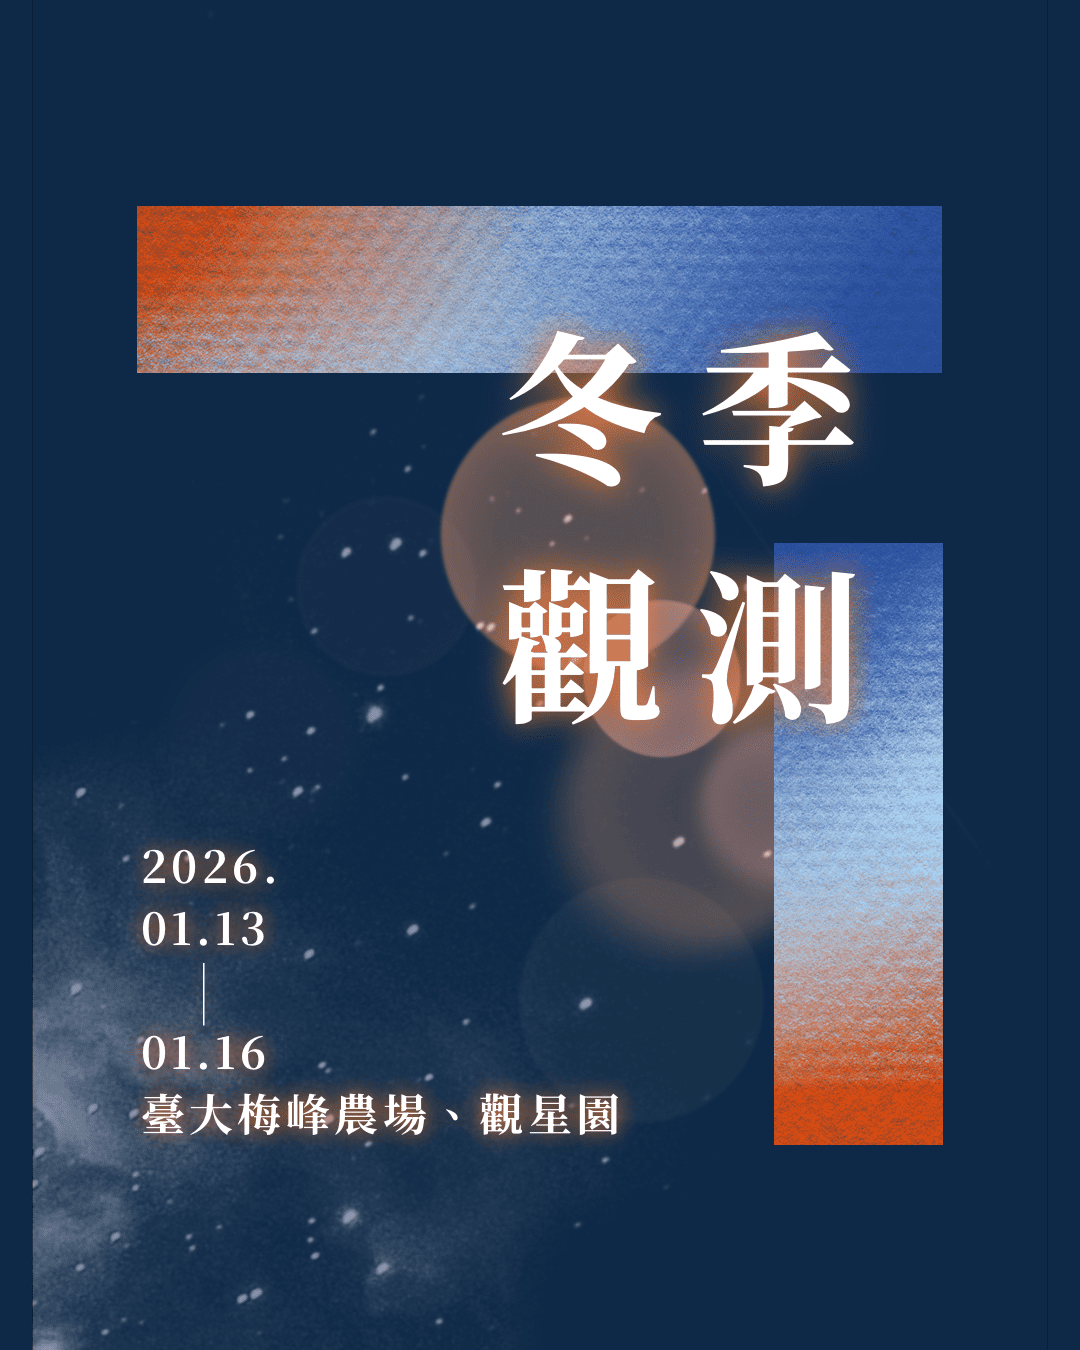
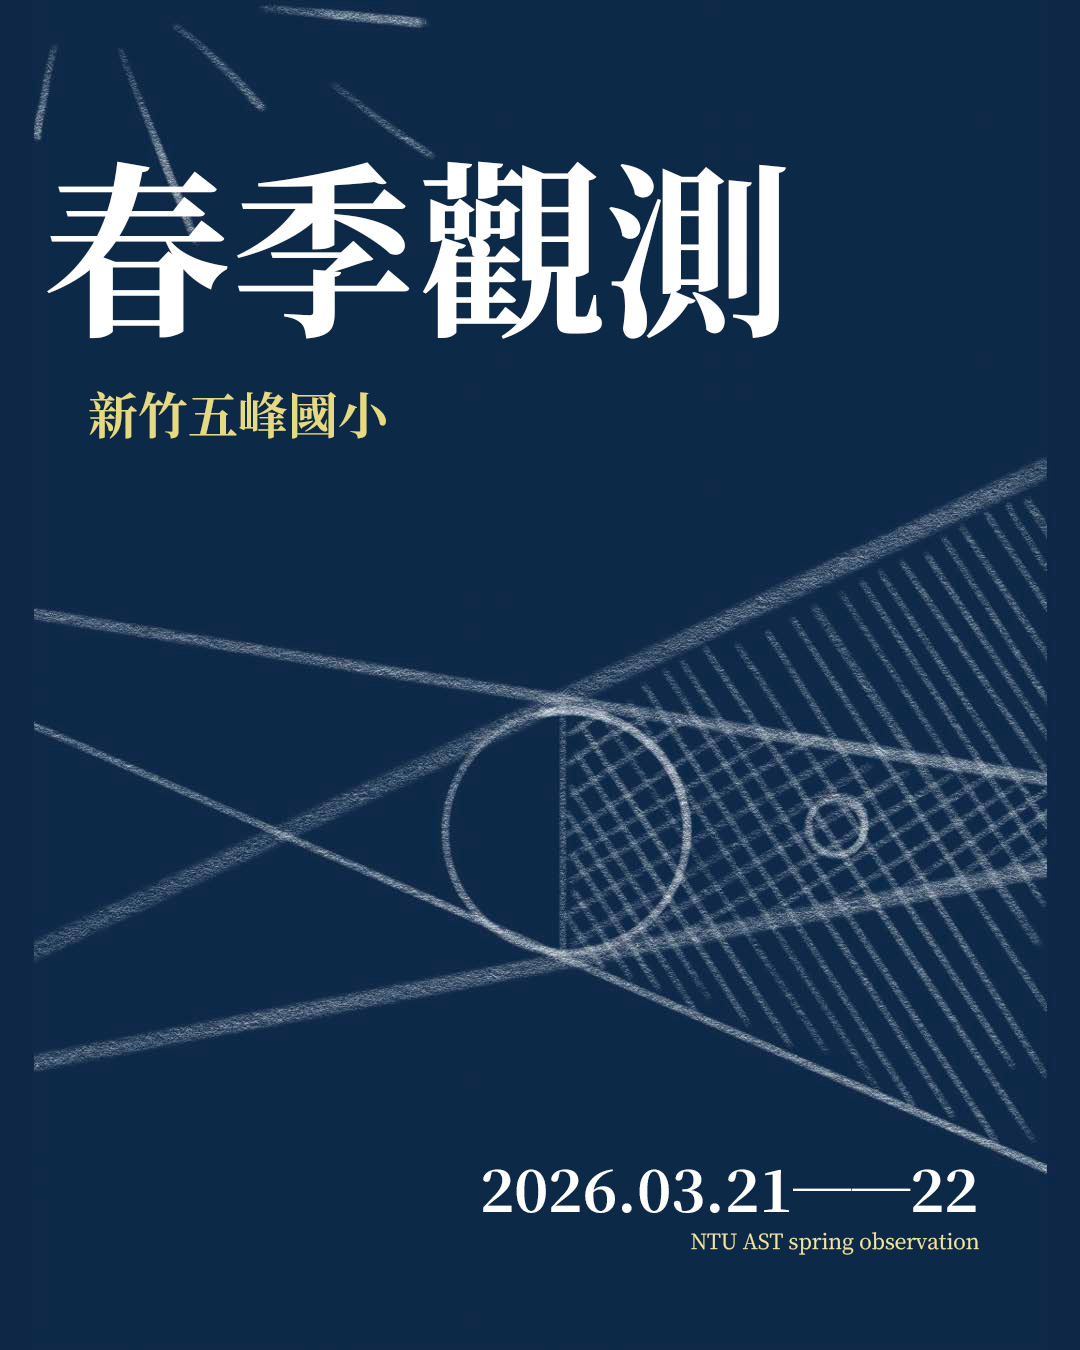
Release (#21)
* newpost nightstories stargazers & release setting

* newpost nightstories stargazers modify

* news

diff --git a/static/css/style.css b/static/css/style.css
@@ -662,8 +662,7 @@ footer {
     text-decoration: none;
     color: inherit;
     transition: transform 0.3s ease, box-shadow 0.3s ease;
-    justify-content: center;
-    align-items: center;
+    align-items: stretch;
 }
 
 @media (hover: hover) {
@@ -675,11 +674,7 @@ footer {
 
 .stories-thumb {
     flex: 0 0 10rem;
-    aspect-ratio: 3 / 4;
     overflow: hidden; 
-    width: 100%; 
-    height: 100%; 
-    object-position: center center;
 }
 
 .stories-thumb img {
@@ -692,7 +687,6 @@ footer {
     width: 100%;
     height: 100%;
     object-fit: cover;
-    object-position: center center;
 }
 
 .stories-meta {

diff --git a/layouts/_default/baseof.html b/layouts/_default/baseof.html
@@ -6,7 +6,6 @@
     <meta name="viewport" content="width=device-width, initial-scale=1.0">
     <meta name="description" content="臺大天文社官方網站，提供最新消息、社團介紹、活動行事曆、社團歷史和成果紀錄">
     <meta name="keywords" content="臺大, 天文社, 臺大天文社, 官方網站, 天文, 社團, 星空, 台大天文社, NTU Astronomy Club">
-    <meta name="robots" content="noindex"> <!-- 3/5 發布時刪除這行 -->
 
     <title>臺大天文社 NTU Astronomy Club：{{ .Title }}</title>
     

diff --git a/content/night-stories/stargazers/2025_summer.md b/content/night-stories/stargazers/2025_summer.md
@@ -1,0 +1,36 @@
+---
+title: "夏觀回顧" #頁面標題
+author: "蘇柏元" #作者
+date: 2025-07-23 # 顯示日期
+publishdate: 2026-03-05T11:00:00+08:00 # 發文日期
+
+draft: false          # 是否是草稿 
+pinned: false        # 是否置頂（可省略）
+archived: false     # 是否典藏（可省略）
+
+summary: "2025 夏季觀測回顧。地點：觀星園。時間：2025/07/23~2025/07/25" # list 頁顯示的摘要
+session: "48" # 用於幹部回憶錄的分類
+semester: "114-1" # 用於之後的分類
+
+cover: "images/night-stories/stargazers/48/summer/Group_photo.JPG" # 封面圖片
+
+# 內文從h2開始，h1 是用來顯示title的
+# 底下需要引入圖片的地方 可以直接寫 ![文字](圖片名稱) 並上傳對應圖片，網管會負責把圖片搬過來
+---
+
+夏季觀測，指的是台大天文社每年夏季所舉辦的觀測活動，舉辦於暑假。本次夏季觀測我們再次前往最喜歡的觀星園進行三天兩夜的活動。
+
+活動一如往常以吵雜喧鬧的遊覽車開始，混亂地抵達觀星園之後，不久我們就開始破冰，準備迎接第一個令人期待的活動：吃火鍋。不過破冰還是很重要，因為等一下吃火鍋要先退冰（破冰）。果然火鍋很好吃。
+
+吃完很好吃的火鍋之後，進入儀器與星導時間。同學們看到大開天簡直興奮得不得了，嗨爆啦，眾人最喜歡的除了吃火鍋以外就是看星星，在燦爛星空的誘惑之下，大家雖然站在熱情的儀器前，都忍不住對晴朗的夜空眉來眼去。縮短的儀器和星導時間順順接到自由觀測階段！見到銀河樂不可支是每個天文同好的共同經驗，在觀星園上這份喜悅又是更上層樓，同學們在社長的帶領之下紛紛站到閃光燈與手機前，排隊與銀河進行美妙的合照。每張照片中銀河都有比耶！
+
+自由是人類生命崇高的追求。台大天文社讚頌崇高的自由理想，活動的第二天更是實踐了解脫一切束縛的理想，尤其是有關行程的枷鎖。我們安排了大半天的自由活動時間，讓參與同學們自行前往清境農場遊覽充滿山坡民宿的田園風光。幹部與新朋友們更是呼朋引伴到了國民賓館享受屬於高山農場的典型佳餚。下午的大地遊戲也令人同青青草原上的綿羊一般興奮，除了從清境農場走回觀星園的小隊員們，大家在觀星園的平台上遊玩各式高風險投資遊戲，如追加關稅一般享受操縱經濟的快感。
+
+使用比新台幣更為創新的貨幣遊玩投資遊戲之後，便是令人期待的環節：吃火鍋。兩天的火鍋各有不同的風味，除了吃起來也是好吃的火鍋以外，更是有不同的口味可以選擇。可惜的是本次活動尚未有湯圓入鍋的創舉，有待天文社幹部進行開發。吃完美味的火鍋之後（我吃的是羊肉爐口味），小隊領取了活動的獎品，之後進入第二天的星導環節。儀器在本日晚上雖尚未體悟湯圓入火鍋的洞見，但開創令人聞風喪膽的儀器新猷：享受觀星園民宿溫暖的床。眾所周知民宿溫暖的床是給認真參與白天活動的小隊員在沒有開天的晚上的安慰，然而儀器卻挑戰了台大天文社的傳統，可說是富有批判性的新銳思想實踐。
+
+![2025夏季觀測儀器冗照.jpg](/images/night-stories/stargazers/48/summer/sleep.jpg)
+
+第三天早上一如往常是大合照和整理行李，準備依依不捨向觀星園說再見的一天。但是台大天文社果然還是台大天文社，所以我們在吃了好吃的早餐以後非常依依不捨的向偉大的觀星園說再見，為大開天的夏季觀測劃下了美好的句點。很期待下次再到觀星園觀測！
+
+![2025夏季觀測大合照.jpg](/images/night-stories/stargazers/48/summer/Group_photo.JPG)
+![2025夏季觀測幹部們.jpg](/images/hero/hero_1.jpg)

diff --git a/content/night-stories/stargazers/2025_fall.md b/content/night-stories/stargazers/2025_fall.md
@@ -1,0 +1,35 @@
+---
+title: "秋觀回顧" #頁面標題
+author: "蘇柏元" #作者
+date: 2025-09-28 # 顯示日期
+publishdate: 2026-03-05T11:00:00+08:00 # 發文日期
+
+draft: false          # 是否是草稿 
+pinned: false        # 是否置頂（可省略）
+archived: false     # 是否典藏（可省略）
+
+summary: "2025 臺政聯合迎新暨秋季觀測。地點：五峰國小。時間：2025/09/28~2025/09/29" # list 頁顯示的摘要
+session: "48" # 用於幹部回憶錄的分類
+semester: "114-1" # 用於之後的分類
+
+cover: "images/night-stories/stargazers/48/fall/image.jpg" # 封面圖片
+
+# 內文從h2開始，h1 是用來顯示title的
+# 底下需要引入圖片的地方 可以直接寫 ![文字](圖片名稱) 並上傳對應圖片，網管會負責把圖片搬過來
+---
+
+秋季觀測，指的是台大天文社每年秋季所舉辦的觀測活動，舉辦於每學年度上學期。本次秋季觀測與政大天文社共同舉辦，共有八十位兩校的幹部和社員參加活動。
+
+如同台大天文社所說，五峰國小的「五」是來五次的五，這次活動我們和政大又來到了新竹縣五峰國小。五峰國小以長長的上坡和好天氣親切迎人，讓大家都享受著五峰的陽光空氣水。
+
+活動一開始是大家最喜歡的破冰環節。不久以後，秋觀的第一個活動開始，是大地遊戲與解謎結合的大遊戲「極望大盜」。各小隊扮演一個未知的角色，需要藉由贏得遊戲來獲得遊戲的提示和點數以贏得遊戲。小隊們玩了飛盤和詞語接龍等有趣的遊戲，非常的令人興奮。最後恭喜第一名的小隊獲得一個好吃的點心。
+
+除了活動以外，我們也關注社寵 Draco 的社交情形。Draco 認識了來自政大的密卡登三千和其他好朋友。我們的幹部們還升級成行政院學校午餐廚房廚師！當然，參與活動的社員也玩得很開心呢！
+
+活動結束後迎來萬眾期待的夜觀時間。天氣慢慢從半開逐漸晴朗，欣賞著漫天星空，大家不禁低吟著「哇，好冷」「哇，這是什麼星星」甚至「我要錢」等含糊不清的語句，顯然是被夜觀幹部的浪漫星導所魅惑。眾人在望遠鏡和儀器包圍之下，受滿天星空感動而躺在星墊上仰望清澈的星空。餐廳裡不知名的交雜聲音，例如「我是炸彈人」等意義不明的句子貫徹雲霄，這又是另外一回事了。
+
+隔天早上，在政大幹部們熱情的帶領之下，活潑有力的社員們開心地完成了另一場解謎活動。據說為了這場活動，隊員們特別期待的提早起床呢！當然，這不包含某蘇姓副社長，畢竟通常觀測最難叫醒的人就是他。
+
+五峰國小可以說是台大天文社的第二基地，幹部和朋友們在此創造了許多美好的回憶，是個特別的地方。以下開放賭盤明年秋季觀測會去哪裡！
+
+![2025秋季觀測大合照.jpg](/images/night-stories/stargazers/48/fall/image.jpg)

diff --git a/content/news/2026-03-04-instrument.md b/content/news/2026-03-04-instrument.md
@@ -1,0 +1,43 @@
+---
+title: "114-2 社課暨儀器工作坊"
+date: 2026-03-04 # 發文日期 (顯示)
+publishdate: 2026-03-04T11:00:00+08:00 # 發文日期
+
+draft: false          # 是否是草稿 
+pinned: false        # 是否置頂（可省略）
+archived: false    # 是否典藏（可省略）
+
+image: "images/news/news_5.jpg"
+
+---
+
+【114-2 社課暨儀器工作坊】
+
+抬頭望向星空，數不清的繁星燁燁生輝。在星點之間的暗空中，還藏著很多看不見的星雲、星系、超新星殘骸，是肉眼難以捕捉的、更繽紛更壯觀的夜空。
+儀器工作坊分成五堂課，介紹天文攝影所需的相關技能，包括儀器學理、光學系統、相機、觀測規劃與天文修圖，歡迎所有對儀器有興趣或想了解天文攝影的社員一起揪儀器工作坊✨✨ 你會學到滿滿的儀器知識，還有認識到很多新的
+儀器知識XD
+
+⭐ 2026 臺大天文社儀器工作坊活動資訊
+
+[入社連結 (此活動限社員參加)](https://forms.gle/UbyuuLVRtdYhBsbk9 )
+
+[報名連結 (此活動限社員參加)](https://forms.gle/k7si3kmvVJfp49XM9)
+
+日期與課程 (皆為星期四 19:00 開始)：
+
+3/19 儀器學理 — 有關儀器的大小事 （講者：郭睿閎&李曜成）
+
+3/26 光學系統 — 好大的望遠鏡喔 （講者：陳禹諾）
+
+4/30 相機與天文觀測 — 你是我的眼（講者：郭睿閎）
+
+5/14 修圖一 — 修圖玄學上 （講者：洪仕良）
+
+5/21 修圖二 — 修圖玄學下（講者：洪仕良&陳禹諾）
+
+報名後請加入臺大天文社臉書社團與 Discord 討論區，更多消息將於 Discord 公告！
+
+⭐社課
+
+本學期除了儀器工作坊外，更邀請了 謝承安學長、藍鼎文教授和吳志剛教授 為我們帶來精彩的社課！
+社課歡迎所有社員和非社員一同來參加，更多細節將於活動前公告！

diff --git a/content/news/2026-03-03-spring_stargazers.md b/content/news/2026-03-03-spring_stargazers.md
@@ -1,0 +1,32 @@
+---
+title: "114-2 臺大天文社春季觀測"
+date: 2026-03-03 # 發文日期 (顯示)
+publishdate: 2026-03-03T11:00:00+08:00 # 發文日期
+
+draft: false          # 是否是草稿 
+pinned: false        # 是否置頂（可省略）
+archived: false    # 是否典藏（可省略）
+
+image: "images/news/news_3.png"
+
+---
+
+【春季觀測】
+
+當夜幕再次降臨，在山巒的守護下，星辰再次浮現在天上，便是我們的遊嬉之時。這個春天，我們將再次出遊，在無光害的星野下，追逐那夢幻的繁星。
+
+以獅子、牧夫、室女作為背景演出的舞台，期待與你一同享受在星空下的盛宴，在劃破天際的銀河之下，感受夜晚微風的輕拂，傾聽一顆顆星星背後絕美的故事、尋覓流星轉瞬即逝的美好，把這個春夜，留在記憶最閃耀的地方。
+
+## 🌸 2026 臺大天文社春季觀測
+
+日期｜2025/03/21（六）- 03/22（日）
+
+地點｜新竹縣五峰國小
+
+報名表單｜[報名表單](https://forms.gle/5rQcRszU95shez3i7)
+
+報名截止日期｜ 03/06（五），額滿為止。
+報名不限社員！
+其餘說明事項詳見報名表單。
+
+✨期待與你一起在春夜璀璨星空下，共度難忘的觀測之旅！

diff --git a/content/news/2026-02-27-114-2-study.md b/content/news/2026-02-27-114-2-study.md
@@ -1,0 +1,20 @@
+---
+title: "114-2 天文物理讀書會"
+date: 2026-02-27 # 發文日期 (顯示)
+publishdate: 2026-02-27T11:00:00+08:00 # 發文日期
+
+draft: false          # 是否是草稿 
+pinned: false        # 是否置頂（可省略）
+archived: false    # 是否典藏（可省略）
+
+image: "images/news/news_4.jpg"
+
+---
+
+【114-2 天文物理讀書會】
+
+／人◕ ‿‿ ◕人＼ 和我簽訂契約，成為天文物理讀書會的成員吧！
+成為天文物理讀書會的一員，透過原文書導讀、相互討論、提問與回饋，關於宇宙的祕密、時空的軌跡和星系的本源都將一一揭開謎底，不管是無相關基礎，或是對天文物理有興趣，很想看看這個領域大致的輪廓的人，這裡都歡迎你一起加入。
+「奇跡も、魔法も、あるんだよ」
+這學期的讀書會主題為「宇宙與星系」，探討更大結構的宇宙學問題與星系演化。活動時間為每週三19:00~21:00，地點在凝態（新物）R304，有興趣的同學歡迎填寫表單並參加！
+[報名表單](https://forms.gle/Q4Gr3GEhCUMRKdrH7)

diff --git a/content/article/template.md b/content/article/template.md
@@ -9,7 +9,8 @@
 # archived: false     # 是否典藏（可省略）
 
 # summary: "" # list 頁顯示的摘要
-# session: ["48"] # 如果你是幹部，可以把屆數加進來。不是幹部的話可以留空
+# session: "48" # 如果你是幹部，可以把屆數加進來。不是幹部的話可以留空
+# semester: "114-1" # 用於之後的分類
 
 # cover: "" # 封面圖片
 

diff --git a/content/history/memories/48th.md b/content/history/memories/48th.md
@@ -7,8 +7,6 @@ session: "48" # 用於「相關文章」的核對
 
 ![img](/images/history/memories/48/cadre.jpg)
 
-<hr></hr>
-
 ## 幹部名單
 
 - 社長：蕭宇博
@@ -25,8 +23,6 @@ session: "48" # 用於「相關文章」的核對
 - 讀書會負責人：吳俊賢、賴怡潔
 - 地縛靈：陳禹諾
 - 太史令：蘇柏元
-
-<hr></hr>
 
 ## 活動紀錄
 
